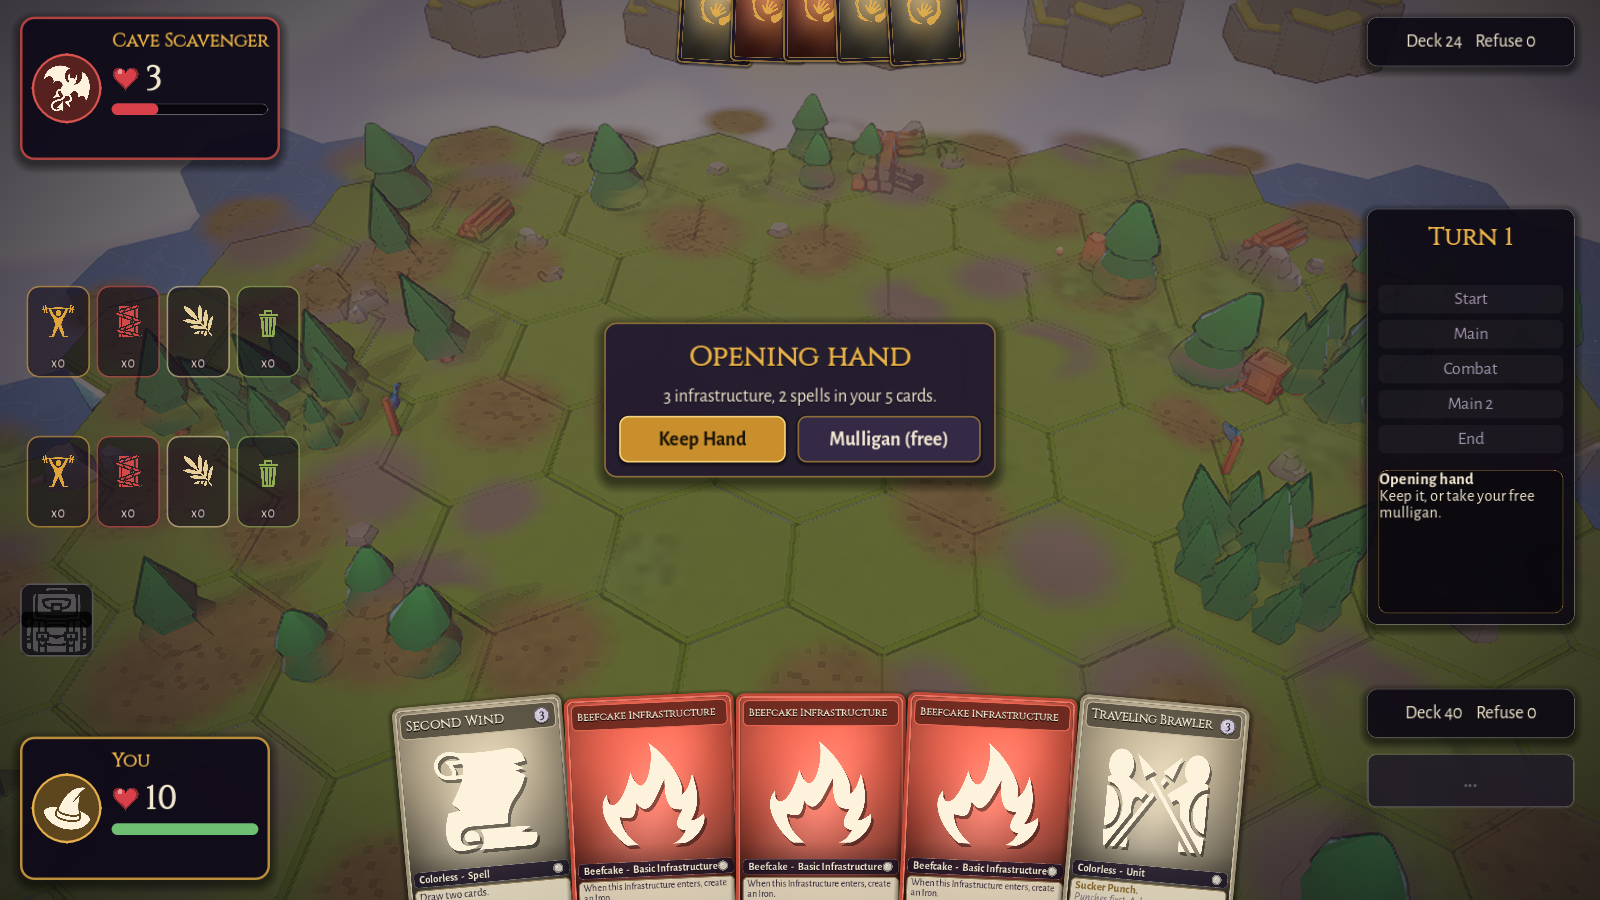
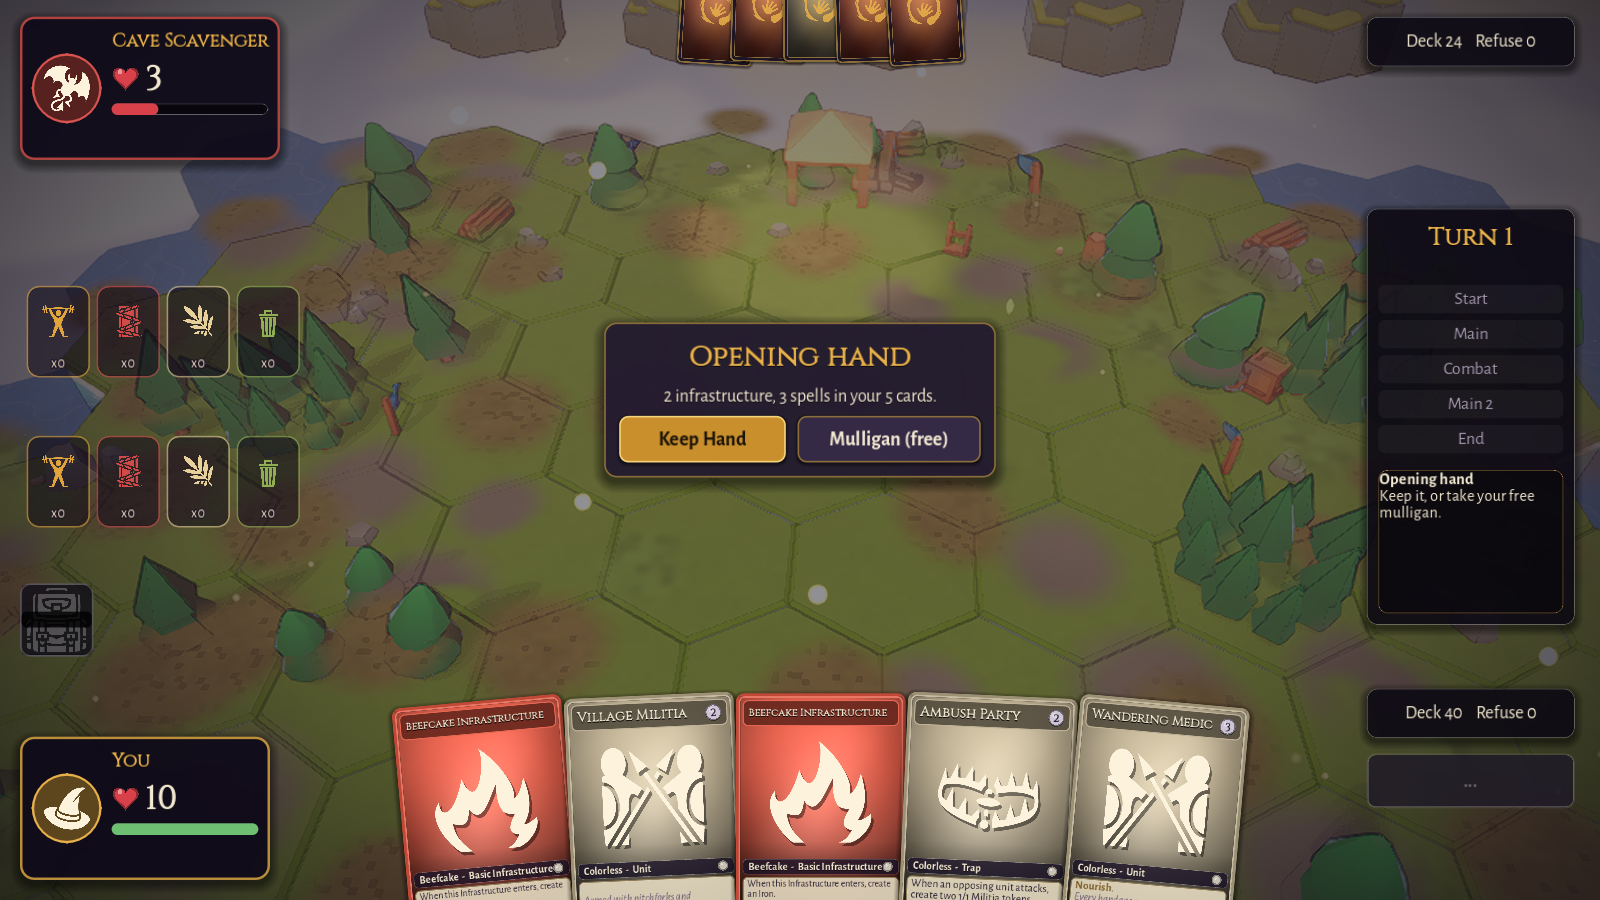
Graphics loop BB-GEN-6: battle backdrop sign-off, follow-up BB-GEN-7

diff --git a/docs/art/graphics_loop.md b/docs/art/graphics_loop.md
@@ -156,10 +156,10 @@ Order: biggest visual impact first (the battle backdrop is on screen for every d
   - Verify: area command above, tag `after`, view all 3 angles. Look for: Particles are visible but sparse, zone-tinted, never gray smoke; fog gives depth; run `bash tools/fps.sh <scene> 1` and stay at 60 fps on Medium.
   - Pass bar: all 8 rubric scores 7 or higher (up to 3 iterations).
   - Result: scores L/C/G/D/M/A/R/X = 7/5/6/6/6/5/6/5 (iter2). Battle preset particles: motes 50, drifting leaves 10, warm fireflies 12. The ambience box followed the camera (9 m up, 36 m wide) so nothing showed: `ArenaBackdrop` now makes the emitters follow a point above the table and calls new `StyleAmbience.focus(0.4, 1.6)` (smaller volume, larger particles). Motes read as sparse bokeh over the board, never behind cards; still pale (could be warmer). Low ground mist at the rim NOT done. Medium 68 fps (battle scene). Tests 1023 green. before = battle_generic/g4_2.png; after = battle_generic/g5_2.png.
-- [~] **BB-GEN-6 Final polish.** Gentle camera drift, optional tilt-shift, no overdraw on Medium, 60 fps with a full board of 7 units per side and effects firing, consistent with the rewards and mini-dungeon screens that reuse it.
+- [x] **BB-GEN-6 Final polish.** Gentle camera drift, optional tilt-shift, no overdraw on Medium, 60 fps with a full board of 7 units per side and effects firing, consistent with the rewards and mini-dungeon screens that reuse it.
   - Verify: area command above, tag `after`, view all 3 angles. Look for: All 3 angles clean: no popping, z-fighting, floating objects, clipped geometry; consistency with the neighbouring areas; fps check on Medium. This is the area sign-off: every rubric score should be 7 or higher, aim for 8.
   - Pass bar: all 8 rubric scores 7 or higher (up to 3 iterations).
-  - Result: scores L/C/G/D/M/A/R/X = _; before = _; after = _
+  - Result: scores L/C/G/D/M/A/R/X = 7/5/6/6/6/5/6/5 (sign-off; honest, area stays below 7 on C/A/X and below 8 overall: see follow-up BB-GEN-7). Camera already drifts gently (sin sway); Medium 68 fps in the battle scene (draw calls 521); no popping or z-fighting seen in the single available angle. Not done: tilt-shift, 7-units-per-side fps run, rewards/mini-dungeon screens not re-shot. before = battle_generic/before14.png; after = battle_generic/g5_2.png (docs/art/screens/graphics_loop/battle_generic_{before,after}.png).
 
 ### TW: Main town: Concord Crossing
 
@@ -890,7 +890,7 @@ Order: biggest visual impact first (the battle backdrop is on screen for every d
 
 # FOLLOW-UP TASKS (added by runs; same format as above)
 
-- [ ] **G-02b Lighting follow-up.** Contact-shadow blobs under characters and props, apply the rig shadow settings (opacity, blur, bias) to the Gainlands, Buffet and Heap zone suns, shadow acne check on High, omni-light budget audit (12 Medium / 24 High).
+- [ ] **G-12b Character audit.** Proportion check (head about 40 percent), flavour idle animations for all NPCs, readable role tags at distance, enemy rim language per zone (distinct from the DNA crimson), NPC/prop clipping; close-ups in town, D.N.A. and Gainlands.  - Verify: close-ups of hero, 4 NPCs and 3 enemy types in town, D.N.A. and Gainlands.  - Pass bar: R 7 or higher in all three.  - Result: scores = _; before = _; after = _- [ ] **BB-GEN-7 Follow-up: battle board finish.** Bevelled hex edges with a visible rim/board thickness, subtle grid glow on placeable cells, warm the pale motes, low rim mist, colour harmony (the green board vs orange decals vs violet grade), a backdrop `--cam` arg so 3 angles can be shot, fps with a full board of 7 units per side.  - Verify: `bash tools/ui_shot.sh res://scenes/battle.tscn battle_generic <tag> --no_tutorial=true`, plus the rewards and mini-dungeon screens.  - Pass bar: all 8 rubric scores 7 or higher.  - Result: scores L/C/G/D/M/A/R/X = _; before = _; after = _- [ ] **G-02b Lighting follow-up.** Contact-shadow blobs under characters and props, apply the rig shadow settings (opacity, blur, bias) to the Gainlands, Buffet and Heap zone suns, shadow acne check on High, omni-light budget audit (12 Medium / 24 High).
   - Verify: Gainlands, Buffet, Heap angle a/b; character close-ups.
   - Pass bar: L 7 or higher in town, Gainlands, D.N.A.
   - Result: scores = _; before = _; after = _
